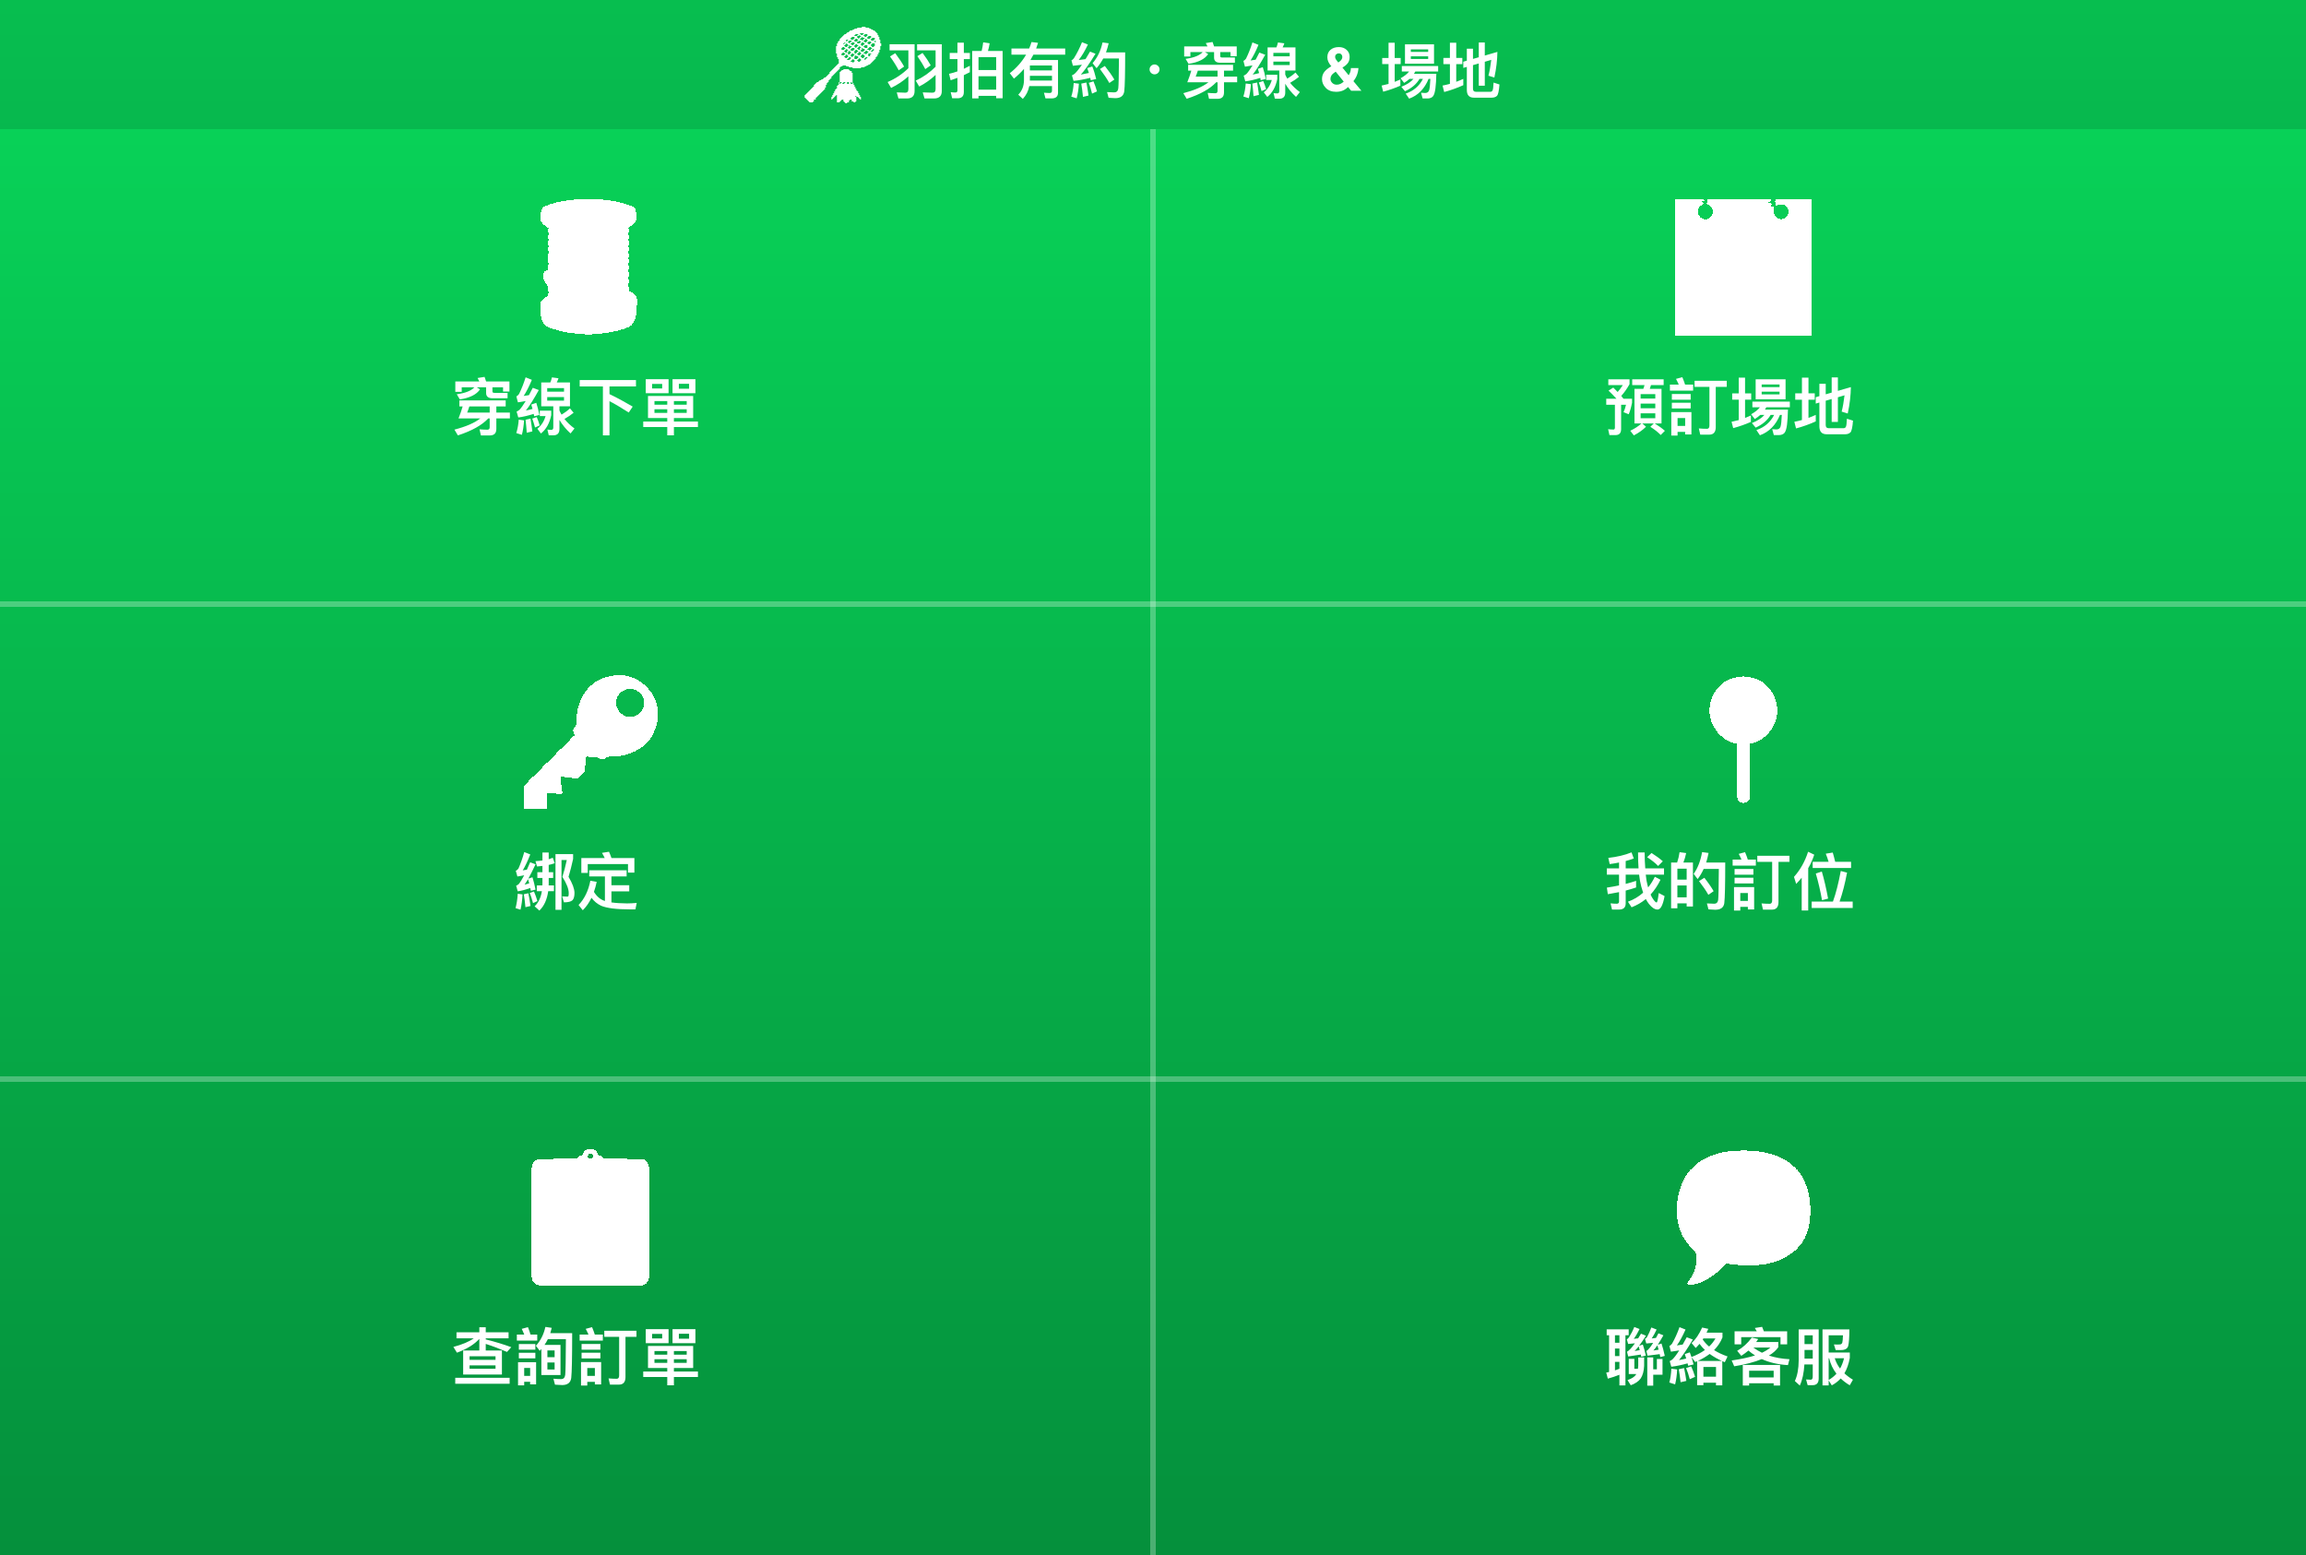
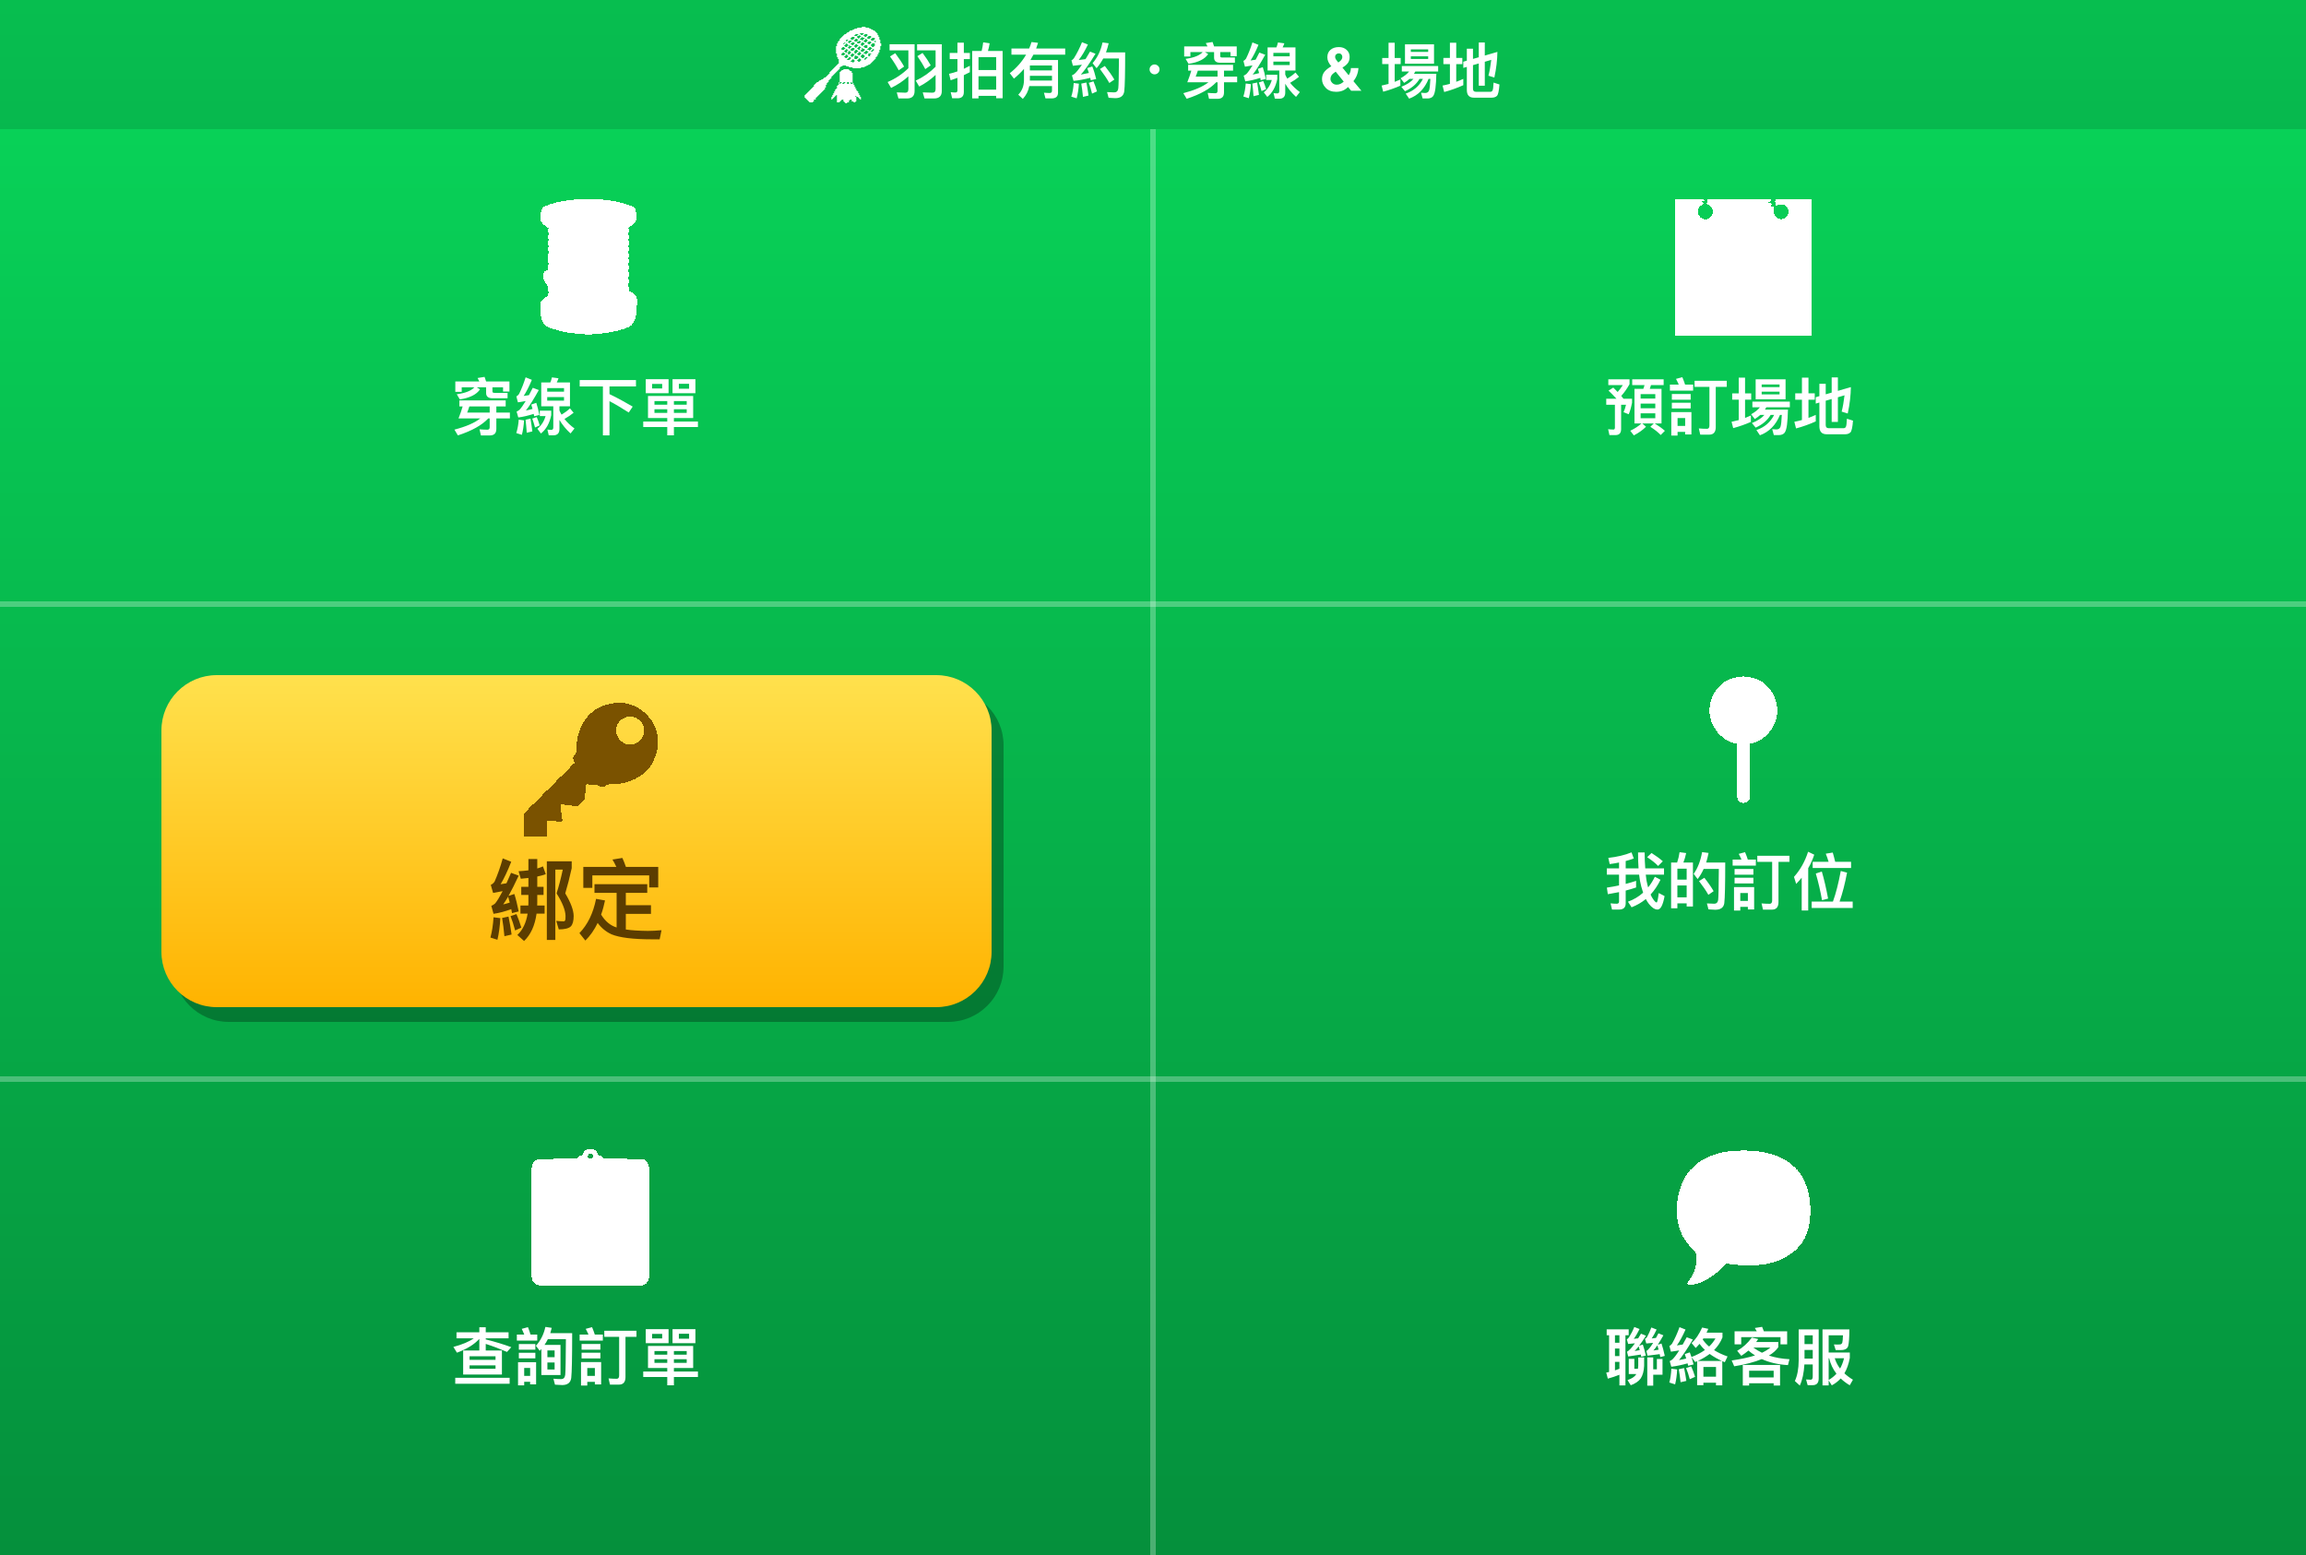
feat: 查詢訂單自動帶ID + 綁定鈕重設計成凸出明亮按鈕

Changed region(s): [[0.0624, 0.4318, 0.4368, 0.6785]]

diff --git a/web/src/lib/stringing.ts b/web/src/lib/stringing.ts
@@ -366,6 +366,19 @@ export async function listMineOrders(lineUserId: string): Promise<OrderItem[]> {
   return rows.map((r: any) => rowToOrder(r));
 }
 
+/** 查詢該 LINE 用戶「最近一筆」訂單（自動帶 ID，不用再輸入碼） */
+export async function getLatestOrderByLineUser(lineUserId: string): Promise<OrderItem | null> {
+  await ensureStringingSchema();
+  const sql = getDb();
+  const rows = await sql`
+    SELECT o.*, s.model AS string_model
+    FROM orders o JOIN strings s ON s.id = o.string_id
+    WHERE o.line_user_id = ${lineUserId}
+    ORDER BY o.id DESC LIMIT 1
+  `;
+  return rows.length ? rowToOrder(rows[0]) : null;
+}
+
 // ── 建立訂單（kiosk 下單）──────────────────────────────────────────────
 
 export async function createOrder(input: {
@@ -628,6 +641,30 @@ export async function transitionOrder(id: number, action: string): Promise<Order
   }
 
   return updated;
+}
+
+// ── 客人取件（kiosk 取件頁：掃碼／輸入取件碼 → 開格）──────────────────
+
+export async function pickupOrder(code: string): Promise<OrderItem> {
+  await ensureStringingSchema();
+
+  const normalized = (code || '').trim();
+  if (!/^\d{6}$/.test(normalized)) throw new Error('請輸入 6 位取件碼');
+
+  const order = await getOrderByPickupCode(normalized);
+  if (!order) throw new Error('查無此取件碼，請再確認');
+
+  if (order.status === 'done') throw new Error('此訂單已完成取件');
+  if (order.status !== 'ready') throw new Error('球拍尚未送回，請稍候再來');
+  if (!order.paid) throw new Error('尚未付款，請先至櫃檯付款');
+  if (order.currentSlot == null) throw new Error('訂單沒有分配格口，請洽櫃檯');
+
+  // 開格（排入開格指令，kiosk 輪詢後送 RS-485 開鎖）
+  // 註：不在此自動完成訂單；客人取件後由員工後台按「完成取件」釋放格口並標記完成
+  //     （關門偵測 D2 門磁上線後，再評估自動完成，見交接文件待辦第 4 項）
+  await queueOpenCell(order.currentSlot);
+
+  return order;
 }
 
 /** 取消訂單：釋放格口並刪除訂單（print_jobs 由 CASCADE 刪除） */

diff --git a/web/src/app/api/webhook/route.ts b/web/src/app/api/webhook/route.ts
@@ -70,6 +70,20 @@ export async function POST(request: NextRequest) {
         continue;
       }
 
+      // 查詢訂單 → 自動帶出「最近一筆」訂單狀態（免輸碼）
+      if (text === '查詢訂單' || text === '查詢') {
+        const { getLatestOrderByLineUser, STATUS_LABEL } = await import('@/lib/stringing');
+        const latest = await getLatestOrderByLineUser(userId);
+        if (latest) {
+          let reply = `🧾 您最近的訂單\n━━━━━━━━━━\n單號：${latest.orderNo}\n線種：${latest.stringModel}（${latest.tension} lbs）\n取件碼：${latest.pickupCode}\n狀態：${STATUS_LABEL[latest.status]}`;
+          if (latest.currentSlot != null) reply += `\n格號：第 ${latest.currentSlot} 格`;
+          await replyMessage(event.replyToken, [{ type: 'text', text: reply }]);
+        } else {
+          await replyMessage(event.replyToken, [{ type: 'text', text: '您目前沒有訂單。請先到 kiosk 下單寄拍。' }]);
+        }
+        continue;
+      }
+
       // 客人傳 4 位認證碼 → kiosk 身份認證（備援）
       const sessionReply = await handleSessionCode(text, userId);
       if (sessionReply) {
